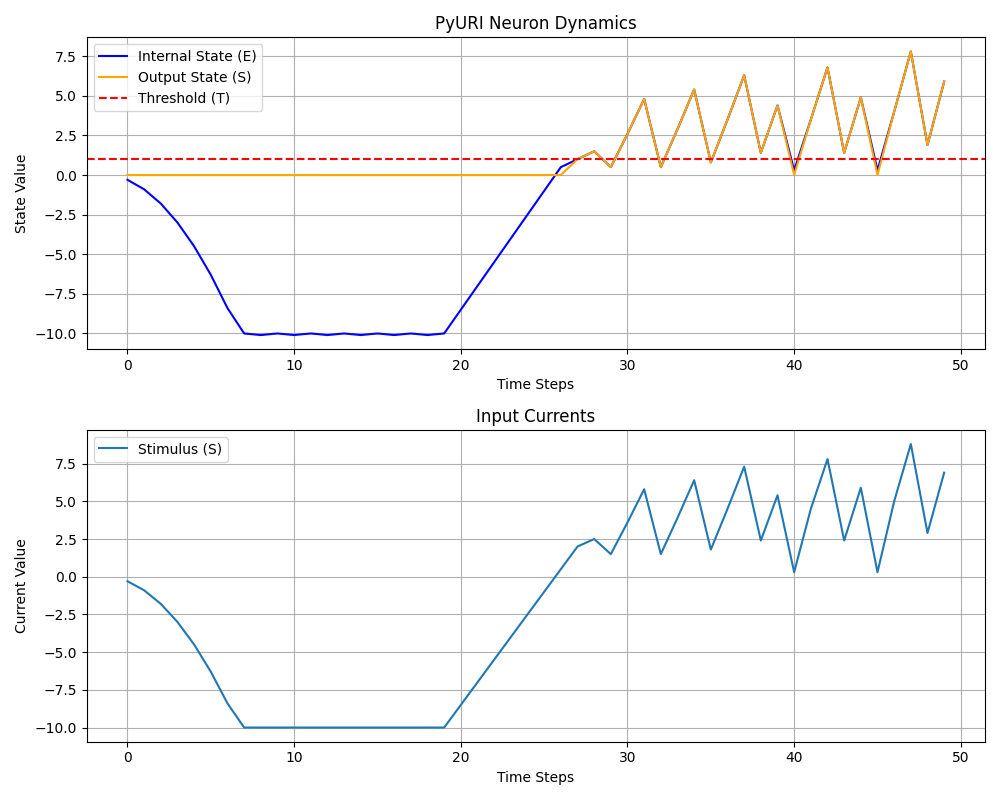
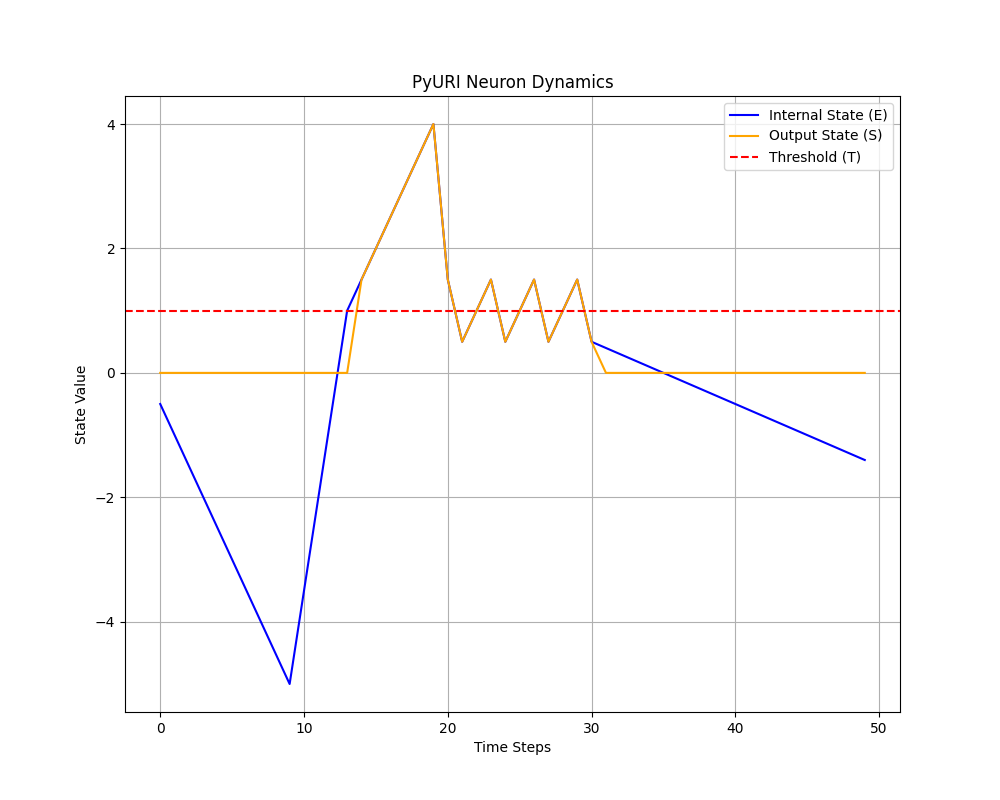
simple test edits

diff --git a/test_node.py b/test_node.py
@@ -50,21 +50,21 @@ for t in range(time_steps):
     print(f"==== Time step {t} ====")
 
     if t<10:
-        inh_current=0.5 + t*0.1
-        exc_current=0.1 - t*0.1
-        gj_current=0.1 - t*0.1
+        inh_current=0.5 
+        exc_current=0.0
+        gj_current=0.0
     elif t<20:
-        inh_current=0.1 + t*0.05
-        exc_current=1.5 - t*0.05
-        gj_current=0.1 - t*0.05
+        inh_current=0.0
+        exc_current=1.5 
+        gj_current=0.0
     elif t<30:
-        inh_current=0.1 
-        exc_current=0.1
+        inh_current=0.0
+        exc_current=0.0
         gj_current=1.5
     else:
-        inh_current=0.1 + t*0.1
-        exc_current=0.1 + t*0.1
-        gj_current=0.1 + t*0.1
+        inh_current=0.0
+        exc_current=0.0
+        gj_current=0.0
 
     # create tensor with dimentions (batch, n, 3)
     # here, batch: one sample, n=1 one neuron
@@ -86,7 +86,7 @@ for t in range(time_steps):
 # Plot results:
 # plot 1: internal state and out state vs time steps
 # plot 2: input currents vs time steps
-fig, (ax1, ax2) = plt.subplots(2, 1, figsize=(10, 8))
+fig, ax1 = plt.subplots(1, figsize=(10, 8))
 ax1.plot(in_states.numpy(), label='Internal State (E)', color='blue')
 ax1.plot(out_states.numpy(), label='Output State (S)', color='orange')
 ax1.axhline(y=fiuri.threshold.item(), color='red', linestyle='--', label='Threshold (T)')
@@ -96,13 +96,5 @@ ax1.set_ylabel('State Value')
 ax1.legend()
 ax1.grid()
 
-ax2.plot(influence_trace.numpy())
-ax2.set_title('Input Currents')
-ax2.set_xlabel('Time Steps')
-ax2.set_ylabel('Current Value')
-ax2.legend(['Stimulus (S)'])
-ax2.grid()
-
-plt.tight_layout()
 plt.show()
 plt.savefig('scripts_outs/pyuri_dynamics.png')

diff --git a/test_node_integration.py b/test_node_integration.py
@@ -23,6 +23,7 @@ from bindsnet.network.topology import Connection
 from bindsnet.network.topology_features import Weight, Bias
 from bindsnet.network import Network
 from bindsnet.network.monitors import Monitor
+from bindsnet.analysis.plotting import plot_spikes, plot_voltages
 
 # one neuron as source, 3 channels because has 3 junctions with target 
 source_layer = Input(shape=(1,3)) 
@@ -99,3 +100,20 @@ influence_trace = torch.zeros(time_steps, dtype=torch.float32)
 # Run simulation
 print("Running simulation...")
 net.run(inputs={"in": X}, time=time_steps)  # input_time_dim defaults to 0
+
+in_state = in_state_monitor.get("in_state")
+out_state = out_state_monitor.get("out_state")
+
+
+fig = plt.figure(figsize=(10,8))
+plt.plot(in_state.view(-1), label='Internal State (E)', color='blue')
+plt.plot(out_state.view(-1), label='Output State (S)', color='orange')
+plt.axhline(y=fiuri.threshold.item(), color='red', linestyle='--', label='Threshold (T)')
+plt.title('PyURI Neuron Dynamics')
+plt.xlabel('Time Steps')
+plt.ylabel('State Value')
+plt.legend()
+plt.grid()
+
+plt.show()
+plt.savefig("scripts_outs/pyuri_dinamics_integration.png")
